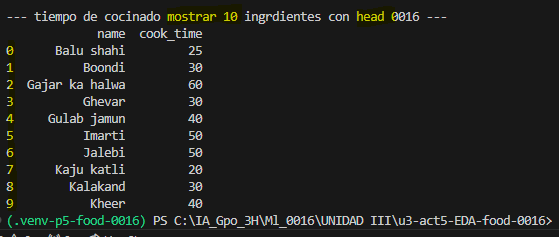
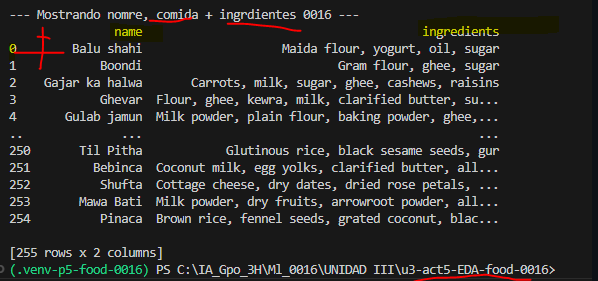
Add files via upload

Changed region(s): [[0.0, 0.0295, 1.0, 1.0]]

diff --git a/u3-p5-food-0016.py b/u3-p5-food-0016.py
@@ -11,3 +11,22 @@ print(recetas)
 print("\n--- tiempo de cocinado mostrar 10 ingrdientes con head 0016 ---")
 nombre_y_hora = df_food_india[['name', 'cook_time']].head(10)
 print(nombre_y_hora)
+print("\n--- Grafica comida (x) Tiempo de cocinado (Y) 0016 ---")
+print("\n--- Grafica comida (x) texto a 30 grados 0016 ---")
+nombre_y_hora.plot.bar(x='name',y='cook_time', rot=30)
+plt.title('Comida tipica de India Johan 0016')
+plt.xlabel('Nombre de platillo')
+plt.ylabel('Tiempo de cocinado')
+plt.show()
+name_and_time = df_food_india[['name', 'prep_time', 'cook_time']].head(10)
+name_and_time.plot.bar(x='name', rot=30)
+plt.title('Grafica de 2 columnas Johan 0016')
+plt.xlabel('Nombre de platillo')
+plt.ylabel('Tiempo de cocinado Prep y comida')
+plt.show()
+print("\n--- Grafica apiladas verticalmente una tras otra verticalmente Johan 0016 ---")
+name_and_time.plot.bar(x='name', stacked=True)
+plt.title('Grafica apiladas Johan 0016')
+plt.xlabel('Nombre de platillo')
+plt.ylabel('Tiempo de cocinado Prep y comida')
+plt.show()

diff --git a/leeme_food_0016.md b/leeme_food_0016.md
@@ -1,0 +1,15 @@
+## Analisis exploratorio de datos
+## Comida del pais india
+## Jaquez Andres 0074 
+## +-+-+- Importando datos del archivo csv comida india
+![alt text](image-1.png)
+## Mostrar nombre de comida
+![alt text](image-2.png)
+## Tiempo de cocinado mostrar 10 registros con head
+![alt text](image-3.png)
+## Creacion de graficas
+![alt text](image-4.png)
+## Grafica de varias columnas
+![alt text](image-5.png)
+## Grafica apiladas
+![alt text](image-6.png)
